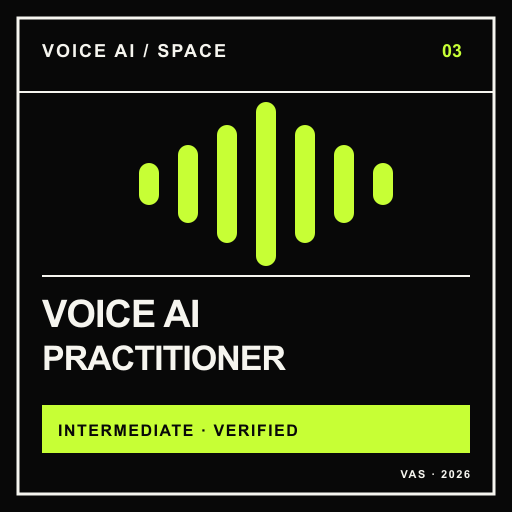
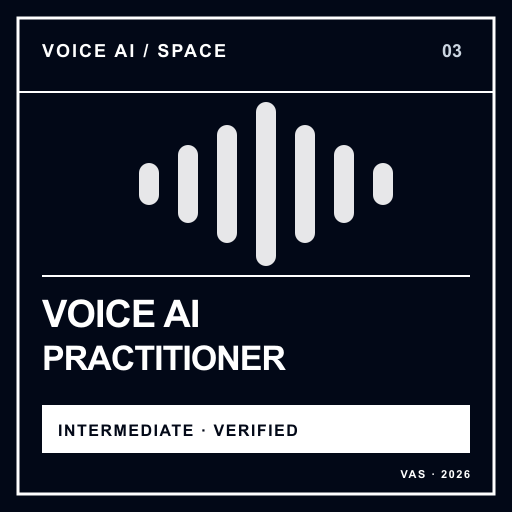
Align preview with Voice AI Space brand

diff --git a/app/globals.css b/app/globals.css
@@ -1,13 +1,13 @@
 @import "tailwindcss";
 
 :root {
-  --ink: #080808;
-  --paper: #f6f5ef;
+  --ink: #020817;
+  --paper: #ffffff;
   --white: #ffffff;
-  --muted: #6f6f68;
-  --line: #c9c8c0;
-  --signal: #c7ff35;
-  --signal-dark: #7da600;
+  --muted: #64748b;
+  --line: #e2e8f0;
+  --signal: #e7e7e9;
+  --signal-dark: #64748b;
   --danger: #d52b1e;
   --radius: 0;
 }
@@ -35,10 +35,10 @@ body {
 }
 
 .dev-banner {
-  background: var(--signal);
+  background: var(--ink);
   border: 2px solid var(--ink);
   border-top: 0;
-  color: var(--ink);
+  color: var(--white);
   font-size: 11px;
   font-weight: 900;
   letter-spacing: 0.18em;
@@ -115,6 +115,55 @@ select:focus-visible {
   border-color: currentColor;
 }
 
+.site-header nav .admin-nav-link {
+  background: var(--ink);
+  border: 2px solid var(--ink);
+  color: var(--white);
+  padding: 9px 12px;
+}
+
+.site-header nav .admin-nav-link:hover {
+  background: #0f172a;
+  border-color: #0f172a;
+}
+
+.preview-access {
+  align-items: center;
+  background: var(--white);
+  border: 2px solid var(--ink);
+  border-top: 0;
+  display: grid;
+  gap: 24px;
+  grid-template-columns: auto minmax(0, 1fr) auto;
+  padding: 20px;
+}
+
+.preview-access-count {
+  align-items: center;
+  background: var(--signal);
+  display: flex;
+  font-family: Arial, Helvetica, sans-serif;
+  font-size: 30px;
+  font-weight: 900;
+  height: 68px;
+  justify-content: center;
+  min-width: 88px;
+}
+
+.preview-access strong {
+  display: block;
+  font-family: Arial, Helvetica, sans-serif;
+  font-size: 20px;
+  margin-bottom: 5px;
+}
+
+.preview-access p {
+  color: var(--muted);
+  font-size: 12px;
+  line-height: 1.5;
+  margin: 0;
+}
+
 .admin-page {
   padding: 54px 0 80px;
 }
@@ -142,7 +191,7 @@ select:focus-visible {
 }
 
 .admin-intro p {
-  color: #d3d2ca;
+  color: #cbd5e1;
   line-height: 1.7;
   margin: 0;
   max-width: 720px;
@@ -437,6 +486,14 @@ select:focus-visible {
 }
 
 @media (max-width: 820px) {
+  .preview-access {
+    grid-template-columns: auto 1fr;
+  }
+
+  .preview-access .button {
+    grid-column: 1 / -1;
+  }
+
   .admin-intro,
   .admin-block-head {
     grid-template-columns: 1fr;
@@ -479,6 +536,18 @@ select:focus-visible {
 }
 
 @media (max-width: 560px) {
+  .preview-access {
+    grid-template-columns: 1fr;
+  }
+
+  .preview-access-count {
+    width: 88px;
+  }
+
+  .preview-access .button {
+    grid-column: auto;
+  }
+
   .bank-summary {
     grid-template-columns: 1fr;
   }
@@ -582,7 +651,7 @@ select:focus-visible {
 .hero p {
   max-width: 640px;
   margin: 0;
-  color: #3f3f3a;
+  color: #475569;
   font-family: Arial, Helvetica, sans-serif;
   font-size: clamp(18px, 2vw, 24px);
   line-height: 1.45;
@@ -624,8 +693,8 @@ select:focus-visible {
 }
 
 .button.signal {
-  background: var(--signal);
-  color: var(--ink);
+  background: var(--ink);
+  color: var(--white);
 }
 
 .button:disabled {
@@ -814,11 +883,22 @@ select:focus-visible {
   margin-top: 64px;
   padding: clamp(34px, 6vw, 72px);
   border: 2px solid var(--ink);
-  background: var(--signal);
+  background: var(--ink);
+  color: var(--white);
   display: flex;
   align-items: end;
   justify-content: space-between;
   gap: 40px;
+}
+
+.cta-panel .eyebrow {
+  color: #cbd5e1;
+}
+
+.cta-panel .button {
+  background: var(--white);
+  border-color: var(--white);
+  color: var(--ink);
 }
 
 .cta-panel h2 {
@@ -976,7 +1056,7 @@ select:focus-visible {
 
 .progress-track {
   height: 8px;
-  background: #d8d7cf;
+  background: var(--line);
 }
 
 .progress-track span {

diff --git a/app/page.tsx b/app/page.tsx
@@ -12,13 +12,18 @@ import {
   MAX_ATTEMPTS_PER_WINDOW,
   PASS_PERCENTAGE,
 } from "@/lib/policy";
-import { issuanceEnabled } from "@/lib/runtime";
+import { questionBankStatus } from "@/lib/question-bank.server";
+import { deploymentStage, issuanceEnabled } from "@/lib/runtime";
 
 export const dynamic = "force-dynamic";
 
 export default async function HomePage() {
   const candidate = await getCandidate();
   const isOpen = issuanceEnabled();
+  const isDevelopment = deploymentStage() === "development";
+  const bankStatus = isDevelopment ? await questionBankStatus() : null;
+  const bankQuestionCount =
+    bankStatus?.counts.reduce((total, row) => total + Number(row.count), 0) ?? 0;
   const assessmentHref = isOpen
     ? candidate
       ? "/assessment"
@@ -27,6 +32,21 @@ export default async function HomePage() {
 
   return (
     <>
+      {isDevelopment ? (
+        <section className="preview-access" aria-label="Development question bank">
+          <div className="preview-access-count">{bankQuestionCount}</div>
+          <div>
+            <strong>Questions are in the private Question Bank</strong>
+            <p>
+              Open the administrator dashboard to search questions, reveal
+              answers and rationales, or import reviewed replacements.
+            </p>
+          </div>
+          <Link className="button" href="/admin/questions">
+            Open Question Bank →
+          </Link>
+        </section>
+      ) : null}
       <section className="hero">
         <div className="hero-copy">
           <span className="eyebrow">VOICE AI KNOWLEDGE STANDARD · {EXAM_VERSION}</span>
@@ -196,7 +216,7 @@ export default async function HomePage() {
           <span className="eyebrow">READY WHEN YOU ARE</span>
           <h2>Your knowledge should travel with you.</h2>
         </div>
-            <Link className="button" href={assessmentHref}>
+        <Link className="button" href={assessmentHref}>
           {isOpen
             ? candidate
               ? "Choose your level"

diff --git a/app/layout.tsx b/app/layout.tsx
@@ -72,6 +72,11 @@ export default function RootLayout({
               <Link href="/#standard">Standard</Link>
               <Link href="/methodology">Methodology</Link>
               <Link href="/verify">Verify</Link>
+              {isDevelopment ? (
+                <Link className="admin-nav-link" href="/admin/questions">
+                  Question Bank
+                </Link>
+              ) : null}
             </nav>
           </header>
           <main>{children}</main>
